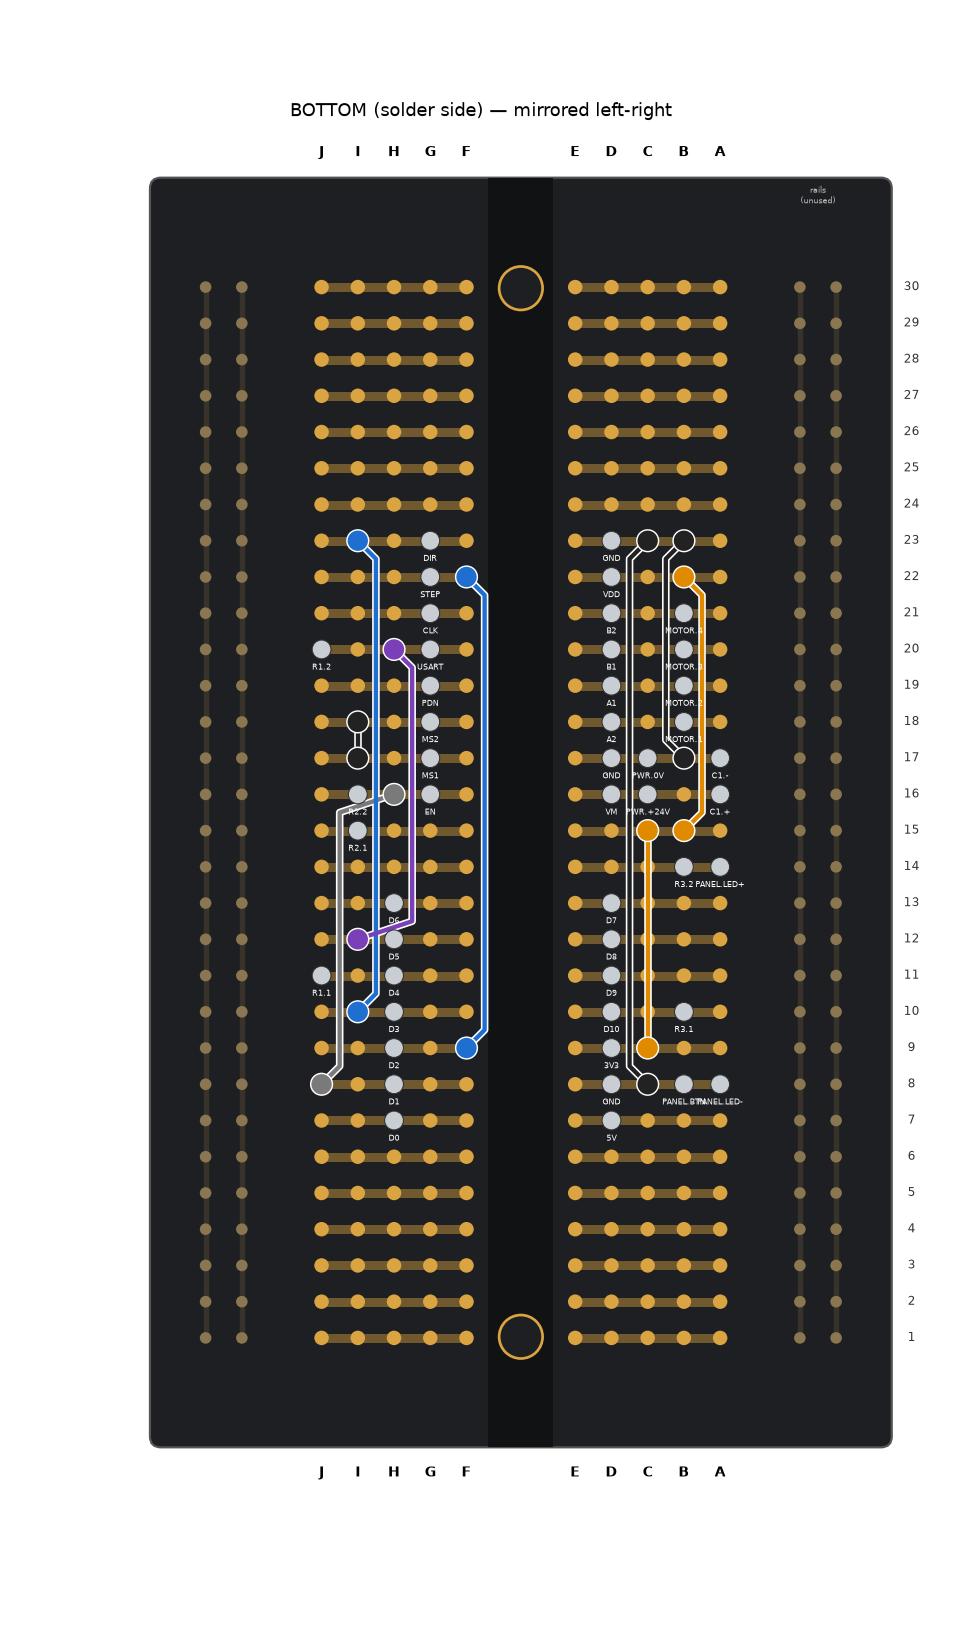
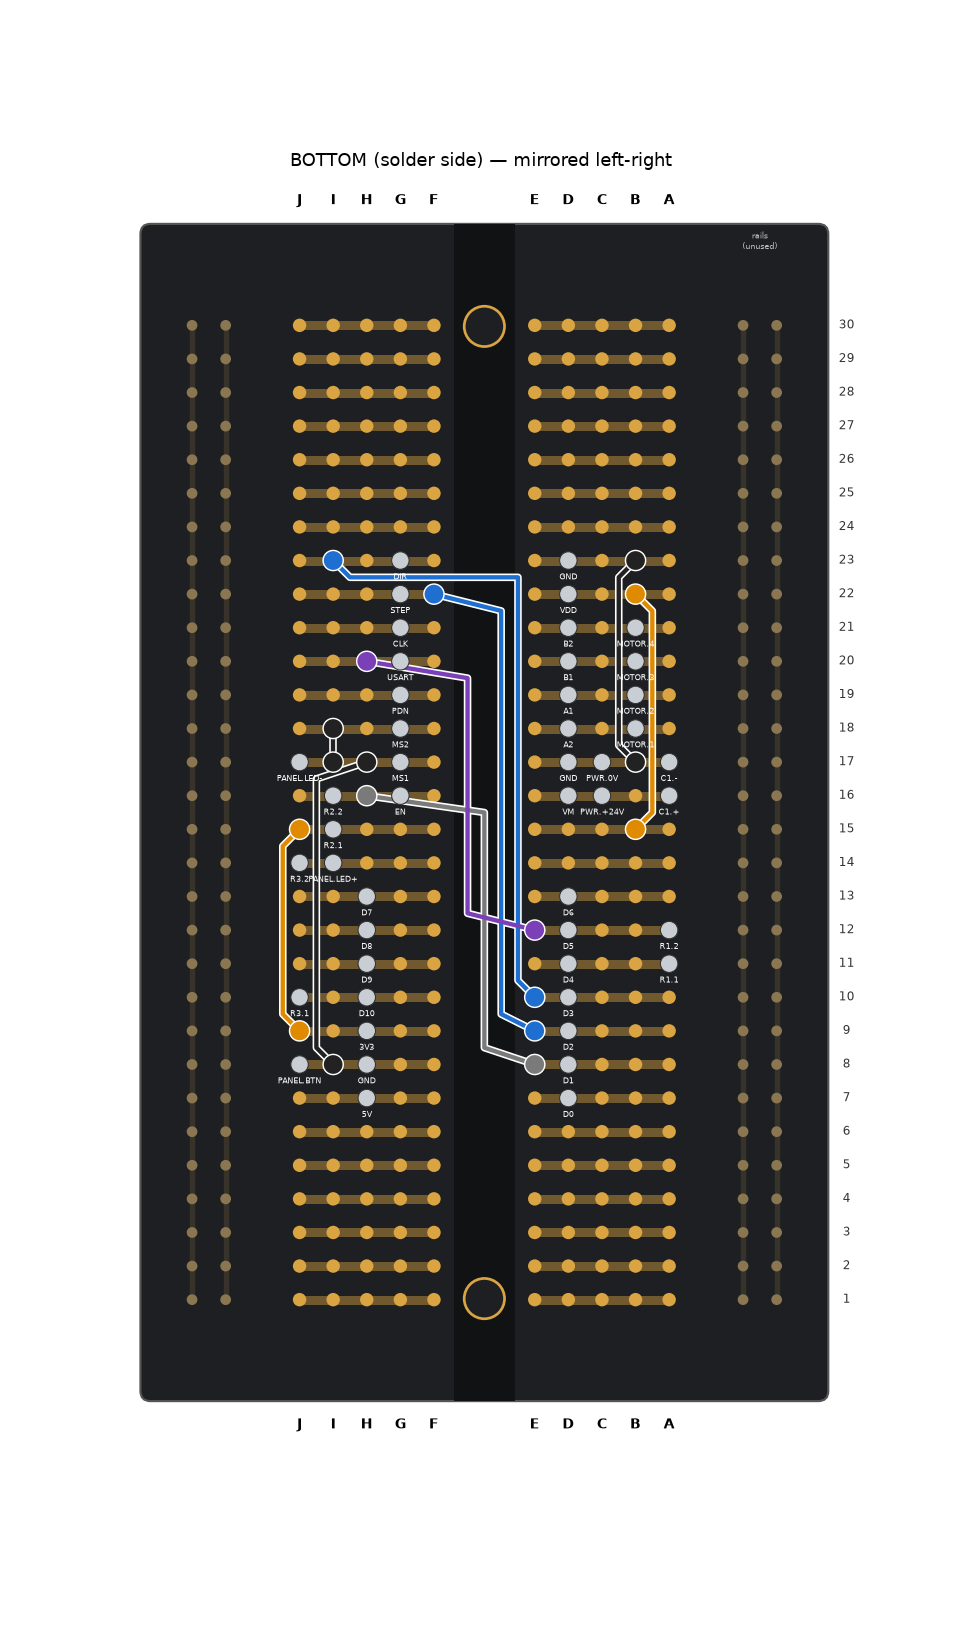
Perfboard: XIAO pin sides were mirrored - GND/5V are in column H (measured). Re-routed, check OK

Changed region(s): [[0.1247, 0.0615, 0.9356, 0.8923]]

diff --git a/perfboard/layout.py b/perfboard/layout.py
@@ -41,9 +41,10 @@ def hole(h: str) -> tuple[str, int]:
 # -----------------------------------------------------------------------------
 # Components: pin -> hole
 # -----------------------------------------------------------------------------
-XIAO = {  # 2 x 7 female headers across the channel; USB-C towards row 1 (the USB wall)
-    "5V": "D7", "GND": "D8", "3V3": "D9", "D10": "D10", "D9": "D11", "D8": "D12", "D7": "D13",
-    "D0": "H7", "D1": "H8", "D2": "H9", "D3": "H10", "D4": "H11", "D5": "H12", "D6": "H13",
+XIAO = {  # 2 x 7 female headers across the channel; parts side up, USB-C towards row 1.
+    # Measured on the board: the XIAO's GND (USB-C shell) is in column H, row 8.
+    "D0": "D7", "D1": "D8", "D2": "D9", "D3": "D10", "D4": "D11", "D5": "D12", "D6": "D13",
+    "5V": "H7", "GND": "H8", "3V3": "H9", "D10": "H10", "D9": "H11", "D8": "H12", "D7": "H13",
 }
 TMC = {  # 2 x 8 female headers across the channel; potentiometer / EN end towards the XIAO
     "EN": "G16", "MS1": "G17", "MS2": "G18", "PDN": "G19", "USART": "G20", "CLK": "G21",
@@ -51,13 +52,13 @@ TMC = {  # 2 x 8 female headers across the channel; potentiometer / EN end towar
     "VM": "D16", "GND_P": "D17", "A2": "D18", "A1": "D19", "B1": "D20", "B2": "D21",
     "VDD": "D22", "GND_L": "D23",
 }
-R1 = {"1": "J11", "2": "J20"}        # 1k, lying along column J: D4 strip -> USART strip
+R1 = {"1": "A11", "2": "A12"}        # 1k, standing: D4 strip -> D5 strip (D5 is wired to USART)
 R2 = {"1": "I15", "2": "I16"}        # 10k, standing: 3.3V bus -> EN
 C1 = {"+": "A16", "-": "A17"}       # 100uF / 35V, lying flat, body pointing out past the edge
 MOTOR = {"1": "B18", "2": "B19", "3": "B20", "4": "B21"}   # JST-XH 4: black, green, red, blue
 PWR = {"+24V": "C16", "0V": "C17"}  # wires from the DC jack
-R3 = {"1": "B10", "2": "B14"}         # 330R, lying along column B: D10 strip -> LED wire
-PANEL = {"LED+": "A14", "LED-": "A8", "BTN": "B8"}   # wires to the panel LED and RESET button
+R3 = {"1": "J10", "2": "J14"}         # 330R, lying along column J: D10 strip -> LED wire
+PANEL = {"LED+": "I14", "LED-": "J17", "BTN": "J8"}   # wires to the panel LED and RESET button
 # (the RESET button's other wire goes straight to the EN pad under the XIAO, not to the board)
 
 COMPONENTS = {"XIAO": XIAO, "TMC": TMC, "R1": R1, "R2": R2, "C1": C1, "MOTOR": MOTOR, "PWR": PWR,
@@ -69,16 +70,16 @@ COMPONENTS = {"XIAO": XIAO, "TMC": TMC, "R1": R1, "R2": R2, "C1": C1, "MOTOR": M
 # -----------------------------------------------------------------------------
 WIRES = [
     ("E15", "F15", "#e08a00", "3.3V bus: join both halves of row 15", "top", []),
-    ("C9", "C15", "#e08a00", "XIAO 3V3 -> 3.3V bus", "bottom", []),
+    ("J9", "J15", "#e08a00", "XIAO 3V3 -> 3.3V bus", "bottom", [(11.5, 9.5), (11.5, 14.5)]),
     ("B15", "B22", "#e08a00", "3.3V bus -> VDD", "bottom", [(0.5, 15.5), (0.5, 21.5)]),
-    ("J8", "H16", "#7a7a7a", "D1 -> EN", "bottom", [(10.5, 8.5), (10.5, 15.5)]),
-    ("F9", "F22", "#1f6fd1", "D2 -> STEP", "bottom", [(6.5, 9.5), (6.5, 21.5)]),
-    ("I10", "I23", "#1f6fd1", "D3 -> DIR", "bottom", [(9.5, 10.5), (9.5, 22.5)]),
-    ("I12", "H20", "#7b3fb8", "D5 -> USART", "bottom", [(8.5, 12.5), (8.5, 19.5)]),
+    ("E8", "H16", "#7a7a7a", "D1 -> EN", "bottom", [(5.5, 8.5), (5.5, 15.5)]),
+    ("E9", "F22", "#1f6fd1", "D2 -> STEP", "bottom", [(5.0, 9.5), (5.0, 21.5)]),
+    ("E10", "I23", "#1f6fd1", "D3 -> DIR", "bottom", [(4.5, 10.5), (4.5, 22.5), (9.5, 22.5)]),
+    ("E12", "H20", "#7b3fb8", "D5 -> USART", "bottom", [(6.0, 12.5), (6.0, 19.5)]),
     ("E17", "F17", "#222222", "MS1 -> GND (across the channel)", "top", []),
     ("I18", "I17", "#222222", "MS2 -> MS1 / GND", "bottom", []),
     ("B17", "B23", "#222222", "power GND <-> logic GND", "bottom", [(1.5, 17.5), (1.5, 22.5)]),
-    ("C8", "C23", "#222222", "XIAO GND -> GND", "bottom", [(2.5, 8.5), (2.5, 22.5)]),
+    ("I8", "H17", "#222222", "XIAO GND -> GND", "bottom", [(10.5, 8.5), (10.5, 16.5)]),
 ]
 
 # -----------------------------------------------------------------------------
@@ -220,16 +221,22 @@ def draw(mirror: bool, path: Path, title: str):
         ax.add_patch(Circle((tx - 1.0, 10.3 + DY), 0.45, fc="#c7c7c7", zorder=6))
         ax.text(tx, 14.2 + DY, "TMC2209\nheatsink up", ha="center", va="center", color="white",
                 fontsize=7, zorder=7)
-        # R1 along column J, R2 standing, C1 lying flat past the edge, JST, 24V wires
-        (x1, y1), (x2, y2) = xy(R1["1"], False), xy(R1["2"], False)
-        ax.plot([x1, x2], [y1, y2], color="#888", lw=1.2, zorder=6)
-        ax.add_patch(FancyBboxPatch((x1 - 0.3, 8.2 + DY), 0.6, 2.6, boxstyle="round,pad=0.02",
-                                    fc="#d8c7a0", ec="#555", zorder=7))
-        ax.text(x1 + 0.75, 9.5 + DY, "R1 1kΩ", rotation=90, fontsize=5.5, va="center", zorder=7)
-        rx, _ = xy(R2["1"], False)
-        ax.add_patch(FancyBboxPatch((rx - 0.35, 9.1 + DY), 0.7, 0.8, boxstyle="round,pad=0.02",
-                                    fc="#9fc0e8", ec="#555", zorder=7))
-        ax.text(rx + 0.2, 8.35 + DY, "R2 10kΩ\n(standing)", fontsize=4.8, ha="center", zorder=7)
+        # resistors: lying ones drawn between their holes, standing ones as a short body
+        for pm, name, fc in ((R1, "R1 1kΩ", "#d8c7a0"), (R2, "R2 10kΩ", "#9fc0e8"),
+                             (R3, "R3 330Ω", "#e8b4b4")):
+            (x1, y1), (x2, y2) = xy(pm["1"], False), xy(pm["2"], False)
+            ax.plot([x1, x2], [y1, y2], color="#888", lw=1.2, zorder=6)
+            lo, hi = min(y1, y2), max(y1, y2)
+            if hi - lo > 1:
+                mid = (lo + hi) / 2
+                ax.add_patch(FancyBboxPatch((x1 - 0.3, mid - 0.9), 0.6, 1.8, boxstyle="round,pad=0.02",
+                                            fc=fc, ec="#555", zorder=7))
+                ax.text(x1 + 0.75, mid, name, rotation=90, fontsize=5.3, va="center", zorder=7)
+            else:
+                ax.add_patch(FancyBboxPatch((x1 - 0.35, lo + 0.1), 0.7, 0.8, boxstyle="round,pad=0.02",
+                                            fc=fc, ec="#555", zorder=7))
+                ax.text(x1 - 0.6, lo + 0.5, name + " (standing)", fontsize=4.8, ha="right",
+                        va="center", zorder=7)
         ax.add_patch(Rectangle((-3.4, 9.9 + DY), 3.0, 1.2, fc="#27303b", ec="#111", zorder=6))
         ax.plot([-0.4, 0], [10 + DY, 10 + DY], color="#999", lw=1, zorder=6)
         ax.plot([-0.4, 0], [11 + DY, 11 + DY], color="#999", lw=1, zorder=6)
@@ -242,16 +249,11 @@ def draw(mirror: bool, path: Path, title: str):
         for h, t in ((MOTOR["1"], "1 blk"), (MOTOR["2"], "2 grn"), (MOTOR["3"], "3 red"),
                      (MOTOR["4"], "4 blu")):
             pin_dot(h, t, "#f4f1e6")
-        (x1, y1), (x2, y2) = xy(R3["1"], False), xy(R3["2"], False)
-        ax.plot([x1, x2], [y1, y2], color="#888", lw=1.2, zorder=6)
-        ax.add_patch(FancyBboxPatch((x1 - 0.3, 5.1 + DY), 0.6, 1.8, boxstyle="round,pad=0.02",
-                                    fc="#e8b4b4", ec="#555", zorder=7))
-        ax.text(x1 - 0.75, 6.0 + DY, "R3 330Ω", rotation=90, fontsize=5.3, va="center", zorder=7)
         for h, t, col in ((PANEL["LED+"], "LED+", "#2a9d3a"), (PANEL["LED-"], "LED−", "#222"),
                           (PANEL["BTN"], "RESET", "#555")):
             x, y = xy(h, False)
-            ax.plot([x, -mx - 1.6], [y, y + (0.35 if t == "RESET" else 0)], color=col, lw=1.8, zorder=6)
-            ax.text(-mx - 1.7, y + (0.35 if t == "RESET" else 0), t, fontsize=5, ha="right",
+            ax.plot([x, X_MAX + mx + 0.6], [y, y], color=col, lw=1.8, zorder=6)
+            ax.text(X_MAX + mx + 0.7, y, t, fontsize=5, ha="left",
                     va="center", color=col, fontweight="bold", zorder=9)
         for h, t, col in ((PWR["+24V"], "+24V", "#d62d20"), (PWR["0V"], "0V", "#222")):
             x, y = xy(h, False)
@@ -286,7 +288,7 @@ def draw(mirror: bool, path: Path, title: str):
                 ax.text(x, y - 0.5, lab, ha="center", va="center", fontsize=4.3, color="white",
                         zorder=9)
 
-    ax.set_xlim(-mx - 3.6, X_MAX + mx + 1.4)
+    ax.set_xlim(-mx - 3.6, X_MAX + mx + 3.4)
     ax.set_ylim(1 - my - 1.4, ROWS + my + 1.4)
     ax.set_aspect("equal")
     ax.axis("off")

diff --git a/perfboard/make_readme.py b/perfboard/make_readme.py
@@ -172,11 +172,11 @@ text = f"""# לוח ההלחמה — PetriTurn
 
 | רכיב | ערך | מיקום | הערה |
 |---|---|---|---|
-| **XIAO ESP32-C3** | על 2 × 7 שקעים נקבה | עמודה `D`, שורות {rows_of(X, ['5V', 'D7'])}: 5V, GND, 3V3, D10, D9, D8, D7 · עמודה `H`, שורות {rows_of(X, ['D0', 'D6'])}: D0 … D6 | **שקע ה-USB-C לכיוון שורה 1** |
+| **XIAO ESP32-C3** | על 2 × 7 שקעים נקבה | עמודה `D`, שורות {rows_of(X, ['D0', 'D6'])}: D0 … D6 · עמודה `H`, שורות {rows_of(X, ['5V', 'D7'])}: 5V, GND, 3V3, D10, D9, D8, D7 | **הרכיבים למעלה, שקע ה-USB-C לכיוון שורה 1.** בדיקה: המתכת של שקע ה-USB-C מצפצפת מול `{free_hole(X['GND'])}` |
 | **TMC2209** (V985) | על 2 × 8 שקעים נקבה | עמודה `D`, שורות {rows_of(T, ['VM', 'GND_L'])}: VM, GND, A2, A1, B1, B2, VDD, GND · עמודה `G`, שורות {rows_of(T, ['EN', 'DIR'])}: EN, MS1, MS2, PDN, USART, CLK, STEP, DIR | **הפוטנציומטר לכיוון ה-XIAO** (שורה {T['EN'][1:]}), צלע קירור למעלה |
-| **R1** | 1kΩ | `{L.R1['1']}` – `{L.R1['2']}` | שוכב לאורך עמודה J |
+| **R1** | 1kΩ | `{L.R1['1']}` – `{L.R1['2']}` | **עומד**. מ-D4 לפס של D5, ומשם ל-USART דרך חוט |
 | **R2** | 10kΩ | `{L.R2['1']}` – `{L.R2['2']}` | **עומד** |
-| **R3** | 330Ω | `{L.R3['1']}` – `{L.R3['2']}` | שוכב לאורך עמודה B — נגד ללד |
+| **R3** | 330Ω | `{L.R3['1']}` – `{L.R3['2']}` | שוכב לאורך עמודה J — נגד ללד |
 | **C1** | 100µF / 35V | **+** ב-`{L.C1['+']}`, **−** ב-`{L.C1['-']}` | **שוכב** מעל אזור פסי המתח (שלא בשימוש). **קוטביות!** |
 | **מחבר מנוע** | JST-XH 4 פינים | `{M['1']}` (1), `{M['2']}` (2), `{M['3']}` (3), `{M['4']}` (4) | 1 = שחור, 2 = ירוק, 3 = אדום, 4 = כחול |
 | **כניסת 24V** | חוטים משקע המתח | **+24V** ל-`{PW['+24V']}`, **0V** ל-`{PW['0V']}` | |
@@ -197,7 +197,7 @@ text = f"""# לוח ההלחמה — PetriTurn
 
 {chr(10).join(wires)}
 
-- **D4 ← USART** עובר דרך R1, ו-**D10 ← לד** עובר דרך R3 — בלי חוט נוסף.
+- **D4 ← USART** עובר דרך R1 אל הפס של D5 (ששם מחובר ל-USART), ו-**D10 ← לד** עובר דרך R3 — בלי חוט נוסף.
 - {top_wires} קצרים, **מעל הלוח** (לפני שמכניסים את הדרייבר). {bottom_wires} **מתחת ללוח** — לעבוד לפי `bottom.png` (הפוך כמו מראה).
 
 ---

diff --git a/perfboard/README.md b/perfboard/README.md
@@ -34,16 +34,16 @@
 
 | רכיב | ערך | מיקום | הערה |
 |---|---|---|---|
-| **XIAO ESP32-C3** | על 2 × 7 שקעים נקבה | עמודה `D`, שורות 7–13: 5V, GND, 3V3, D10, D9, D8, D7 · עמודה `H`, שורות 7–13: D0 … D6 | **שקע ה-USB-C לכיוון שורה 1** |
+| **XIAO ESP32-C3** | על 2 × 7 שקעים נקבה | עמודה `D`, שורות 7–13: D0 … D6 · עמודה `H`, שורות 7–13: 5V, GND, 3V3, D10, D9, D8, D7 | **הרכיבים למעלה, שקע ה-USB-C לכיוון שורה 1.** בדיקה: המתכת של שקע ה-USB-C מצפצפת מול `F8` |
 | **TMC2209** (V985) | על 2 × 8 שקעים נקבה | עמודה `D`, שורות 16–23: VM, GND, A2, A1, B1, B2, VDD, GND · עמודה `G`, שורות 16–23: EN, MS1, MS2, PDN, USART, CLK, STEP, DIR | **הפוטנציומטר לכיוון ה-XIAO** (שורה 16), צלע קירור למעלה |
-| **R1** | 1kΩ | `J11` – `J20` | שוכב לאורך עמודה J |
+| **R1** | 1kΩ | `A11` – `A12` | **עומד**. מ-D4 לפס של D5, ומשם ל-USART דרך חוט |
 | **R2** | 10kΩ | `I15` – `I16` | **עומד** |
-| **R3** | 330Ω | `B10` – `B14` | שוכב לאורך עמודה B — נגד ללד |
+| **R3** | 330Ω | `J10` – `J14` | שוכב לאורך עמודה J — נגד ללד |
 | **C1** | 100µF / 35V | **+** ב-`A16`, **−** ב-`A17` | **שוכב** מעל אזור פסי המתח (שלא בשימוש). **קוטביות!** |
 | **מחבר מנוע** | JST-XH 4 פינים | `B18` (1), `B19` (2), `B20` (3), `B21` (4) | 1 = שחור, 2 = ירוק, 3 = אדום, 4 = כחול |
 | **כניסת 24V** | חוטים משקע המתח | **+24V** ל-`C16`, **0V** ל-`C17` | |
-| **לד STATUS** (בפאנל) | לד 5 מ"מ בבית 8 מ"מ | רגל ארוכה (+) ← `A14`, רגל קצרה (−) ← `A8` | חוטים לפאנל |
-| **כפתור RESET** (בפאנל) | לחצן רגעי (NO), חור 7 מ"מ | רגל אחת ← `B8` (GND), רגל שנייה ← **משטח EN בגב ה-XIAO** | ראו סעיף 4 |
+| **לד STATUS** (בפאנל) | לד 5 מ"מ בבית 8 מ"מ | רגל ארוכה (+) ← `I14`, רגל קצרה (−) ← `J17` | חוטים לפאנל |
+| **כפתור RESET** (בפאנל) | לחצן רגעי (NO), חור 7 מ"מ | רגל אחת ← `J8` (GND), רגל שנייה ← **משטח EN בגב ה-XIAO** | ראו סעיף 4 |
 
 - השקעים הנקבה מאפשרים להחליף את הבקר והדרייבר בלי הלחמה. מלחימים את השקעים, לא את הרכיבים.
 
@@ -52,23 +52,23 @@
 | שורה | A–E (שמאל) | F–J (ימין) |
 |---|---|---|
 | 1–6 | — (**פנוי: מקום למתאם ה-USB**) | — |
-| 7 | XIAO.5V | XIAO.D0 |
-| 8 | XIAO.GND, **LED− (לפאנל)**, **RESET (לפאנל)**, W11 | XIAO.D1, W4 |
-| 9 | XIAO.3V3, W2 | XIAO.D2, W5 |
-| 10 | XIAO.D10, R3 | XIAO.D3, W6 |
-| 11 | XIAO.D9 | XIAO.D4, R1 |
-| 12 | XIAO.D8 | XIAO.D5, W7 |
-| 13 | XIAO.D7 | XIAO.D6 |
-| 14 | R3, **LED+ (לפאנל)** | — |
-| 15 | **פס 3.3V**: W1, W2, W3 | **פס 3.3V**: R2, W1 |
+| 7 | XIAO.D0 | XIAO.5V |
+| 8 | XIAO.D1, W4 | XIAO.GND, **RESET (לפאנל)**, W11 |
+| 9 | XIAO.D2, W5 | XIAO.3V3, W2 |
+| 10 | XIAO.D3, W6 | XIAO.D10, R3 |
+| 11 | XIAO.D4, R1 | XIAO.D9 |
+| 12 | XIAO.D5, R1, W7 | XIAO.D8 |
+| 13 | XIAO.D6 | XIAO.D7 |
+| 14 | — | R3, **LED+ (לפאנל)** |
+| 15 | **פס 3.3V**: W1, W3 | **פס 3.3V**: R2, W1, W2 |
 | 16 | TMC.VM, C1 +, **+24V** | TMC.EN, R2, W4 |
-| 17 | TMC.GND, C1 −, **0V**, W8, W10 | TMC.MS1, W8, W9 |
+| 17 | TMC.GND, C1 −, **0V**, W8, W10 | TMC.MS1, **LED− (לפאנל)**, W8, W9, W11 |
 | 18 | TMC.A2, מנוע 1 | TMC.MS2, W9 |
 | 19 | TMC.A1, מנוע 2 | TMC.PDN — **לבד** |
-| 20 | TMC.B1, מנוע 3 | TMC.USART, R1, W7 |
+| 20 | TMC.B1, מנוע 3 | TMC.USART, W7 |
 | 21 | TMC.B2, מנוע 4 | TMC.CLK — **לבד** |
 | 22 | TMC.VDD, W3 | TMC.STEP, W5 |
-| 23 | TMC.GND, W10, W11 | TMC.DIR, W6 |
+| 23 | TMC.GND, W10 | TMC.DIR, W6 |
 | 24–30 | — | — |
 
 ---
@@ -80,18 +80,18 @@
 | חוט | מה | מ- | אל | צד | צבע |
 |---|---|---|---|---|---|
 | W1 | פס 3.3V — מחבר את שני חצאי שורה 15 | `E15` | `F15` | למעלה (קצר) | כתום |
-| W2 | 3V3 של ה-XIAO ← פס 3.3V | `C9` | `C15` | למטה | כתום |
+| W2 | 3V3 של ה-XIAO ← פס 3.3V | `J9` | `J15` | למטה | כתום |
 | W3 | פס 3.3V ← VDD של הדרייבר | `B15` | `B22` | למטה | כתום |
-| W4 | D1 ← EN | `J8` | `H16` | למטה | אפור |
-| W5 | D2 ← STEP | `F9` | `F22` | למטה | כחול |
-| W6 | D3 ← DIR | `I10` | `I23` | למטה | כחול |
-| W7 | D5 ← USART | `I12` | `H20` | למטה | סגול |
+| W4 | D1 ← EN | `E8` | `H16` | למטה | אפור |
+| W5 | D2 ← STEP | `E9` | `F22` | למטה | כחול |
+| W6 | D3 ← DIR | `E10` | `I23` | למטה | כחול |
+| W7 | D5 ← USART | `E12` | `H20` | למטה | סגול |
 | W8 | MS1 ← GND (מעל התעלה) | `E17` | `F17` | למעלה (קצר) | שחור |
 | W9 | MS2 ← MS1 / GND | `I18` | `I17` | למטה | שחור |
 | W10 | GND של המתח ↔ GND של הלוגיקה | `B17` | `B23` | למטה | שחור |
-| W11 | GND של ה-XIAO ← GND | `C8` | `C23` | למטה | שחור |
+| W11 | GND של ה-XIAO ← GND | `I8` | `H17` | למטה | שחור |
 
-- **D4 ← USART** עובר דרך R1, ו-**D10 ← לד** עובר דרך R3 — בלי חוט נוסף.
+- **D4 ← USART** עובר דרך R1 אל הפס של D5 (ששם מחובר ל-USART), ו-**D10 ← לד** עובר דרך R3 — בלי חוט נוסף.
 - W1, W8 קצרים, **מעל הלוח** (לפני שמכניסים את הדרייבר). W2, W3, W4, W5, W6, W7, W9, W10, W11 **מתחת ללוח** — לעבוד לפי `bottom.png` (הפוך כמו מראה).
 
 ---
@@ -103,7 +103,7 @@ EN של ה-XIAO הוא **משטח קטן בגב הלוח שלו** (מסומן `E
 
 1. להלחים חוט דק (0.1–0.2 מ"מ², או wire-wrap) למשטח `EN` — מלחם נקי, נגיעה קצרה.
 2. להעביר אותו **בין שתי שורות השקעים**, מתחת ל-XIAO, ולצאת בצד — ה-XIAO עדיין נכנס לשקעים.
-3. הקצה השני — לרגל של כפתור ה-RESET. הרגל השנייה של הכפתור ← `B8` (GND).
+3. הקצה השני — לרגל של כפתור ה-RESET. הרגל השנייה של הכפתור ← `J8` (GND).
 4. **בהחלפת XIAO** — להעביר את החוט ל-XIAO החדש.
 
 ---
@@ -115,7 +115,7 @@ EN של ה-XIAO הוא **משטח קטן בגב הלוח שלו** (מסומן `E
 3. W1, W8 (הקצרים, מלמעלה).
 4. R1, R2 (עומד), R3, C1 (**קוטביות**), מחבר JST.
 5. W2, W3, W4, W5, W6, W7, W9, W10, W11 מלמטה.
-6. חוטים לפאנל (~25 ס"מ): LED+ מ-`A14`, LED− מ-`A8`, RESET מ-`B8`.
+6. חוטים לפאנל (~25 ס"מ): LED+ מ-`I14`, LED− מ-`J17`, RESET מ-`J8`.
 7. **בדיקה במולטימטר — בלי רכיבים ובלי מתח** (למטה).
 8. חוטי 24V: אדום ל-`C16`, שחור ל-`C17`. חוט האיפוס מגב ה-XIAO לכפתור.
 9. להכניס את ה-XIAO (USB-C לשורה 1) ואת הדרייבר (פוטנציומטר לכיוון ה-XIAO). מתאם 90° על ה-USB-C.
@@ -130,19 +130,19 @@ EN של ה-XIAO הוא **משטח קטן בגב הלוח שלו** (מסומן `E
 | בין | צריך | מה זה בודק |
 |---|---|---|
 | `E16` ↔ `C17` | **נתק** | **אין קצר בין 24V ל-GND** |
-| `E16` ↔ `E9` | **נתק** | **24V לא מגיע ל-3.3V** |
-| `C17` ↔ `E8` | ≈0Ω | GND של הספק = GND של הבקר, הכפתור והלד |
+| `E16` ↔ `F9` | **נתק** | **24V לא מגיע ל-3.3V** |
+| `C17` ↔ `F8` | ≈0Ω | GND של הספק = GND של הבקר, הכפתור והלד |
 | `C17` ↔ `E23` | ≈0Ω | GND של הלוגיקה בדרייבר |
-| `C17` ↔ `H17` | ≈0Ω | MS1 ל-GND |
+| `C17` ↔ `G17` | ≈0Ω | MS1 ל-GND |
 | `C17` ↔ `F18` | ≈0Ω | MS2 ל-GND |
-| `E9` ↔ `E22` | ≈0Ω | 3.3V מגיע ל-VDD |
-| `E9` ↔ `F16` | ≈10kΩ | R2: EN ← 3.3V |
-| `F8` ↔ `F16` | ≈0Ω | D1 → EN |
-| `G9` ↔ `H22` | ≈0Ω | D2 → STEP |
-| `F10` ↔ `F23` | ≈0Ω | D3 → DIR |
-| `F12` ↔ `F20` | ≈0Ω | D5 → USART |
-| `F11` ↔ `F20` | ≈1kΩ | D4 → R1 → USART |
-| `E10` ↔ `E14` | ≈330Ω | D10 → R3 → לד |
+| `F9` ↔ `E22` | ≈0Ω | 3.3V מגיע ל-VDD |
+| `F9` ↔ `F16` | ≈10kΩ | R2: EN ← 3.3V |
+| `C8` ↔ `F16` | ≈0Ω | D1 → EN |
+| `C9` ↔ `H22` | ≈0Ω | D2 → STEP |
+| `C10` ↔ `F23` | ≈0Ω | D3 → DIR |
+| `C12` ↔ `F20` | ≈0Ω | D5 → USART |
+| `E11` ↔ `F20` | ≈1kΩ | D4 → R1 → USART |
+| `F10` ↔ `F14` | ≈330Ω | D10 → R3 → לד |
 | `E18` ↔ `E19` | **נתק** | אין קצר בין חוטי המנוע |
 | `E19` ↔ `E20` | **נתק** |  |
 | `E20` ↔ `E21` | **נתק** |  |

diff --git a/WIRING.md b/WIRING.md
@@ -36,7 +36,9 @@
             └─────────────┘
 ```
 
-- השמות מודפסים **בגב הלוח**. כשהופכים את הלוח, הצדדים מתחלפים — לסמוך על ההדפסה.
+- **הציור הזה הוא מבט מהגב** — הצד שעליו מודפסים השמות. כשהרכיבים של ה-XIAO למעלה, הצדדים הפוכים:
+  עם USB-C למעלה, `GND` / `5V` בצד **שמאל**. בכל ספק — לסמוך על ההדפסה, או לבדוק בצפצוף:
+  המתכת של שקע ה-USB-C מחוברת ל-`GND`.
 - `D0`, `D8`, `D9` — פיני אתחול של השבב. **לא לחבר אליהם דבר.**
 - `D6`, `D7` — פנויים (על `D6` השבב מדפיס הודעות אתחול).
 
